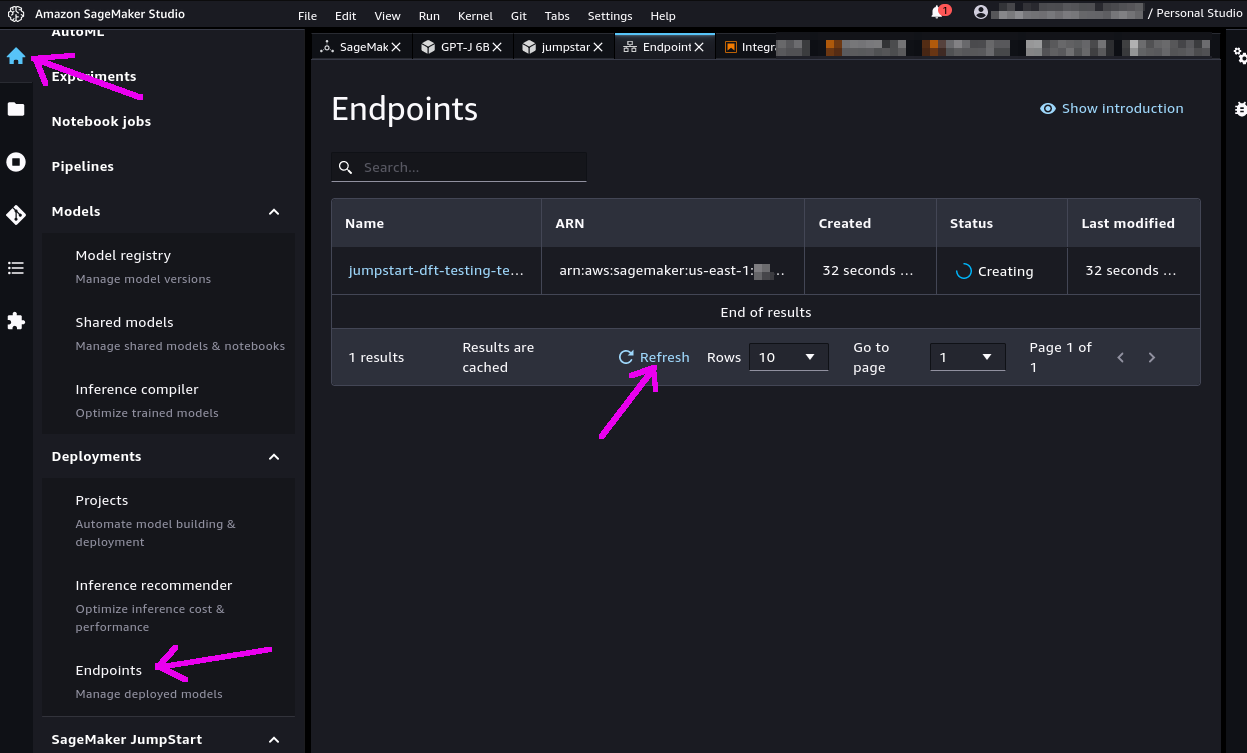
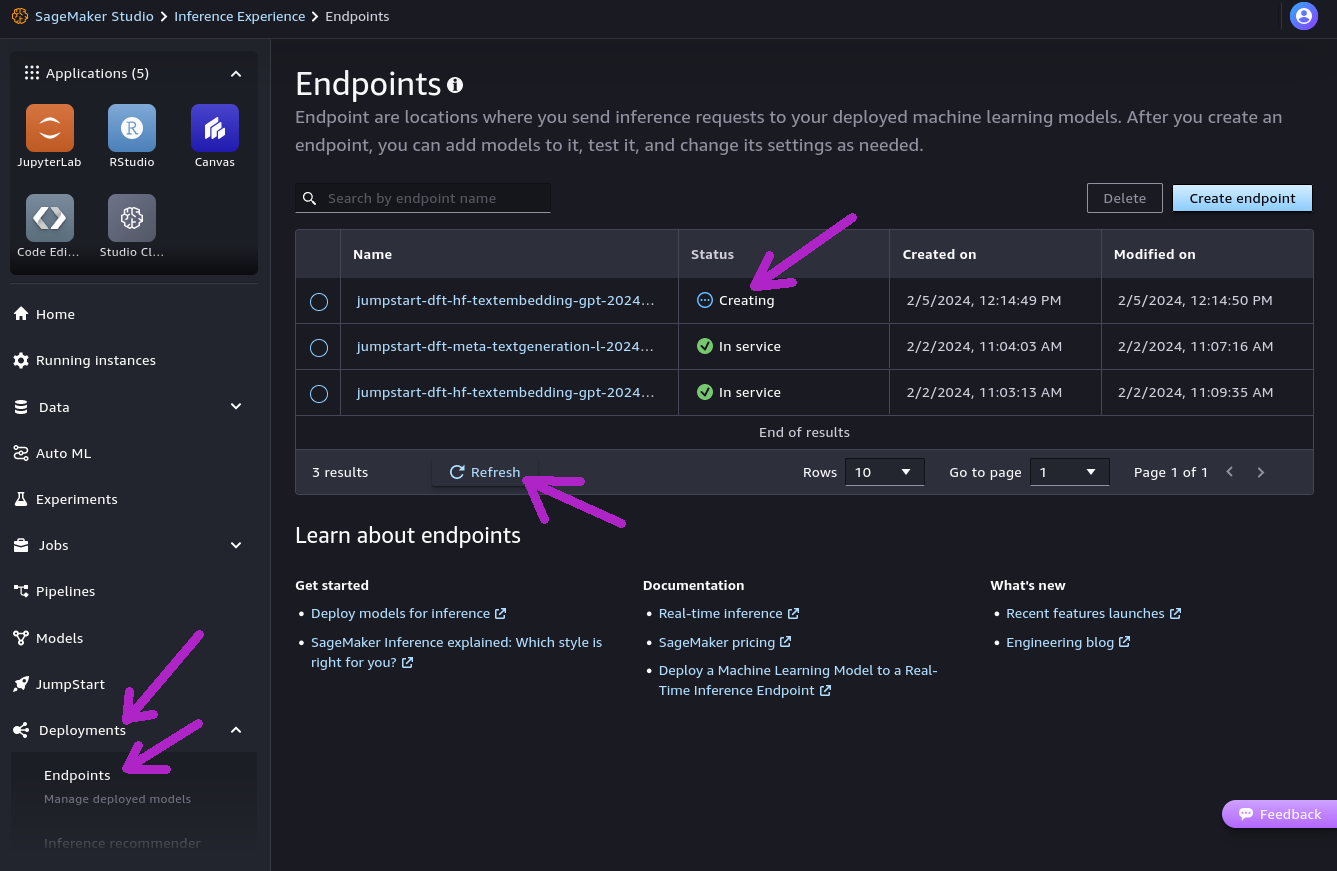
new sagemaker screenshots, revised page wording and instructions

diff --git a/docs/pages/aiml/aws/aws-sagemaker.md b/docs/pages/aiml/aws/aws-sagemaker.md
@@ -40,7 +40,7 @@ consult the suggested readings at the end of this page.
 To run the integration demo notebook, you need:
 
 - An **Amazon account** with access to Amazon SageMaker. In particular, you will need to acces SageMaker Studio and run the example in there: besides ensuring a standardized runtime and environment, SageMaker Studio provides automated access to a ready-made set of Amazon IAM roles that grant your account all necessary permissions to deploy the "JumpStart" models in SageMaker (see below for details);
-- An **Astra account** with a **Serverless Cassandra with Vector Search** database. You will need the [Database ID](https://awesome-astra.github.io/docs/pages/astra/faq/#where-should-i-find-a-database-identifier) and an [Access Token](https://awesome-astra.github.io/docs/pages/astra/create-token/) with role "Database Administrator".
+- An **Astra account** and a **Vector database** created in it. To connect to it, you need the _API Endpoint_ and an _Application Token_, which you can obtain from the database main dashboard on Astra. You may optionally need to specify a _Namespace_ for the connection if you are not targeting the default one.
 
 
 ## Setup
@@ -92,21 +92,25 @@ If you prefer to use the SageMaker UI to deploy the models, here are all steps.
 
 <img src="../../../../img/sagemaker/screenshots/sagemaker_open-jumpstart.png" />
 
-**Step 3.** Click the "Home" icon on the left toolbox of Studio and scroll to the "JumpStart / Models, notebooks, solution" entry. Clicking on it will open the "SageMaker JumpStart" tab in the main view. _(Note: we will mostly refer to "tabs within the Studio UI" simply as "tabs" in the following. These, however, are not meant to be separate tabs in your browser.)_
+<img src="../../../../img/sagemaker/screenshots/sagemaker_open-jumpstart-2.png" />
+
+**Step 3.** Make sure you are on the "Home" view (click on the home icon in the left navbar) and pick the "JumpStart" button under _Prebuilt and automated solutions_. Clicking on it will bring the "SageMaker JumpStart" listing in the main view, with the entries grouped by "Hub". Notice the search box at the top of the listing.
 
 <img src="../../../../img/sagemaker/screenshots/sagemaker_deploy-embedding_1.png" />
 
-**Step 4.** Search for the embedding model `GPT-J 6B Embedding` with the search box of the JumpStart tab. Click on it in the search results: a tab will open with this model's details. Make sure you are on the "Deploy" tab and expand the "Deployment Configuration" section.
+**Step 4.** Search for the embedding model `GPT-J 6B Embedding` with the search box of JumpStart. Click on it in the search results: you will be brought to the model's details. Click the "Deploy" button on the top right to configure and start the model deployment.
 
-**Step 5.** Give the endpoint a specific name (it must be unique) and select `ml.g5.24xlarge` as the instance type that will host the model. _(Note: you might need
+<img src="../../../../img/sagemaker/screenshots/sagemaker_deploy-embedding_1-b.png" />
+
+**Step 5.** Check the endpoint name (you can keep the default suggested one) and select `ml.g5.24xlarge` for the instance type that will host the model. _(Note: you might need
 to check with your [Service Quotas](https://docs.aws.amazon.com/servicequotas/latest/userguide/intro.html) to make sure you have capacity to deploy this instance.)_
 
-**Step 6.** Click "Deploy" to start the process. This might take between _five and ten minutes_, during which a newly-opened tab will report progress. As you can see on this tab, the endpoint you are going to use has been given a final name made by prepending `"jumpstart-dft-"` to the endpoint name you chose earlier. **Keep this endpoint name handy: you will be asked to provide it later when running the example code.**
+**Step 6.** Click "Deploy" (bottom right) to start the process. This might take between _five and ten minutes_. The endpoint you are going to use has been given a final name (visible also as the title of this page) obtained by prepending `"jumpstart-dft-"` to the name chosen earlier. **Keep this endpoint name handy: you will be asked to provide it later when running the example code.**
 
-<img src="../../../../img/sagemaker/screenshots/sagemaker_deploy-embedding_2.gif" />
+<img src="../../../../img/sagemaker/screenshots/sagemaker_deploy-embedding_2.png" />
 
 **Step 7.** While you wait, you can check the status of the deploy in two ways: (a) from the Amazon SageMaker UI, choosing the "Inference / Endpoints" entry in the left navbar, and then refreshing periodically;
-or (b) from within SageMaker Studio, by selecting the "Home" icon and then choosing "Deployments / Endpoints" in the left-hand toolbox.
+or (b) from within SageMaker Studio, by selecting the "Deployment/Endpoints" entry in the left navbar. You have to periodically click the "Refresh" button until you see the status of your model changing from "Creating" to "In service".
 
 <admonition markdown="1">
 ??? note "Checking deploy status, screenshots"
@@ -118,26 +122,17 @@ or (b) from within SageMaker Studio, by selecting the "Home" icon and then choos
 
 <img src="../../../../img/sagemaker/screenshots/sagemaker_deploy-embedding-playground.png" />
 
-**Step 8.** When the deploy has finished, you will see its status being reported as "In Service". You can run a quick test with a handy Playground-like interface available in SageMaker Studio: click on the endpoint name in the endpoint list, then select the "Test inference" tab to open it. Try with a JSON payload such as `{"text_inputs": ["I am here!", "So do I."]}` and hit "Send Request" (bottom right): the endpoint response should resemble the one shown in the screenshot, with the two embedding vectors under the `body => embedding` list-of-lists entry. _The embedding model is deployed and ready to be used in the example code._
+<img src="../../../../img/sagemaker/screenshots/sagemaker_deploy-embedding-playground-1.png" />
+
+**Step 8.** When the deploy has finished, you will see its status being reported as "In Service". You can run a quick test with a handy Playground-like interface available in SageMaker Studio: click on the endpoint name in the list (reachable through "Deployments/Endpoints" on the left navbar), then select the "Test inference" tab to open it. Try with a JSON payload such as `{"text_inputs": ["I am here!", "So do I."]}`: paste this text in the "JSON Payload" text field, then hit "Send Request" (bottom right): the endpoint response should resemble the one shown in the screenshot, with the two embedding vectors under the `body => embedding` list-of-lists entry.
+
+> Now the embedding model is deployed and ready to be used in the example code.
 
 **Step 9.** Repeat steps 4 through 7, this time _to deploy the LLM_: search in JumpStart for the model named "Llama 2 70B Chat" and choose `ml.g5.48xlarge` as instance type. _(Note: this model, made available by Meta, requires acceptance of its "End User License Agreement" and "Acceptable Use Policy" prior to use: you will be presented with a dialog to do so at deploy time. Also, keep in mind that the deploy time for this model can well exceed twenty minutes in some cases.)_
 
 **Step 10.** Similarly as for the embedding model, you can test the LLM in the UI through the model's "Test inference" tab. Try with a payload like the following: `{"inputs": "Write a short poem about the late Paleocene.", "parameters": {"max_new_tokens": 256, "temperature": 0.6, "top_p": 0.9}}`. Hit the "Send Request" button (bottom right), then check the results in the right-hand panel. _(Note: the "Test inference" tab can also show Python code to use that particular endpoint through `boto3` invocations. This may come handy, as in most cases exemplifies more advanced usages such as how to encode a past exchange between system/assistant/user roles in the text generation request.)_
 
-<admonition markdown="1">
-!!! failure "This LLM cannot be currently tested in the playground"
-
-    The custom header required to properly pass the EULA acceptance when issuing
-    invocations from the playground in SageMaker Studio is not working in the playground.
-    Without this header, invocations would return with this error:
-    `Need to pass custom_attributes='accept_eula=true' as part of header. This means ...`.
-    Unfortunately, for the time being, this model can be tested only through the code,
-    in the ways that will be demonstrated in the example.
-
-</admonition>
-
-**Deploys are now complete.** You can now start the example notebook
-as outlined in the next section.
+> **Deploys are now complete.** You can now start the example notebook as outlined in the next section.
 
 
 ## Run the example
@@ -147,10 +142,10 @@ within Amazon SageMaker Studio, so as to receive, through its usage of
 the AWS `boto3` library, an AWS identity equipped with the special permissions required
 to programmatically deploy the SageMaker JumpStart models.
 
-<admonition markdown="1">
+<!-- <admonition markdown="1">
 ??? note "Running the app from other environments"
 
-    Strictly speaking, the permission limitation only apply to the
+    Strictly speaking, the permission limitations only apply to the
     task of _deploying the JumpStart models_.
 
     That means, if the models are deployed already (e.g. through the UI),
@@ -160,7 +155,7 @@ to programmatically deploy the SageMaker JumpStart models.
 
     Please refer to the notes at the end of this page for more details.
 
-</admonition>
+</admonition> -->
 
 As mentioned earlier, you will be able to either supply the endpoint names for the AI models
 (in case you went for UI-based deploys as outlined earlier), or have the SageMaker SDK
@@ -179,36 +174,40 @@ in other ways - something that is demonstrated in an Appendix at the end of the 
 **Step 1.** Download the notebook from this repository at [this link](https://raw.githubusercontent.com/awesome-astra/docs/main/docs/pages/aiml/aws/notebooks/sagemaker.ipynb) and save it to your local computer.
 (You can also view it [on your browser](https://github.com/awesome-astra/docs/blob/main/docs/pages/aiml/aws/notebooks/sagemaker.ipynb).)
 
-<img src="../../../../img/sagemaker/screenshots/sagemaker_upload.png" />
+<img src="../../../../img/sagemaker/screenshots/sagemaker_createspace.png" />
 
-**Step 2.** You need a "JupyterLab space", i.e. a filesystem with compute resources on top of it, ready to run Jupyter kernels and effectively execute your notebooks. You find JupyterLab in the "Applications" icon group at the top of the left-hand sidebar; then, if you don't have one yet, click the "Create JupyterLab space" button, give it a name, hit "Create" and wait one minute or so. (You can use a `ml.t3.medium` instance for what comes next.)
+<img src="../../../../img/sagemaker/screenshots/sagemaker_createspace-1.png" />
 
-**Step 3.** Once the JupyterLab space is _Running_, you can click "Open JupyterLab": a new browser tab will be brought up. There is a toolbox on the left, where you are about to upload the notebook you downloaded earlier. _(Note: you can stop and re-start the space whenever you want, in order to optimize your resource usage. The notebooks stored in the space's file system will be persisted.)_
+**Step 2.** You need a "JupyterLab space", i.e. an Amazon-provided filesystem with compute resources on top of it, ready to run Jupyter kernels and effectively execute your notebooks. You find JupyterLab in the "Applications" icon group at the top of the left-hand sidebar; then, if you don't have one yet, click the "Create JupyterLab space" button, give it a name and hit "Create space". You should now see the space's dashboard -- and notice that it has been _created_, but it is not running yet.
 
-**Step 4.** In the left toolbox of your JupyterLab space, make sure you select the "File Browser" view and locate the "Upload" button: use it to upload the notebook file you previously saved. The notebook will be shown in the file browser.
+<img src="../../../../img/sagemaker/screenshots/sagemaker_runspace.png" />
+
+**Step 3.** Check the compute instance type that will support the execution of your code (you can stick with a `ml.t3.medium` instance for this example) and click "Run space" to actually get your space running. Wait a minute or so until you see the space's status change from "Starting" to "Running".
+
+**Step 4.** Once the JupyterLab space is _Running_, you can click "Open JupyterLab": a new browser tab will be brought up. There is a toolbox on the left, which you will momentarily use to upload the notebook file. _(Note: you can stop and re-start the space whenever you want, in order to optimize your resource usage. The notebooks stored in the space's file system will be persisted.)_
+
+<img src="../../../../img/sagemaker/screenshots/sagemaker_jupyterlab-opened.png" />
+
+**Step 5.** In the left toolbox of your JupyterLab space, make sure you select the "File Browser" view and locate the "Upload" button: click on it and pick the notebook file from your computer. The notebook will be shown in the file browser.
 
 <img src="../../../../img/sagemaker/screenshots/sagemaker_launch-notebook.png" />
 
-**Step 5.** If you double-click on it, the notebook will be opened in Studio, with a Jupyter kernel behind id, ready to execute its code.
+**Step 6.** If you double-click on it, the notebook will be opened in Studio, with a Jupyter kernel behind id, ready to execute its code.
 
-<img src="../../../../img/sagemaker/screenshots/sagemaker_start-environment.png" />
+<img src="../../../../img/sagemaker/screenshots/sagemaker_notebook-running.png" />
 
-**Step 6.** You can now run each cell in sequence by clicking on them and pressing Shift+Enter. You will be asked for the secrets and the connection details during execution.
-
-<img src="../../../../img/sagemaker/screenshots/sagemaker_kernel-starting.png" />
-
+**Step 7.** You can now run each cell in sequence by clicking on them and pressing Shift+Enter. You will be asked for the secrets and the connection details during execution.
 
 #### Cleanup
 
 During the above steps, some resources are created, which you may want to
 cleanly dispose of after you are done:
 
-- endpoints deployed in SageMaker (i.e. the Embedding and the LLM models). You can delete them from the "Endpoints" view, reachable through the "Inference / Endpoints" entry in SageMaker's left-hand navbar (once deleted, you can click the Refresh icon in SageMaker Studio's "Endpoints" tab to make sure they are not listed anymore);
-- resources started to run the notebook itself. These can be shut down from within SageMaker Studio: select the "Running Terminals and Kernels" view on the left toolbar (see picture below) and click the "shut down" icon next to all instances, apps and sessions associated to the notebook you just ran;
-- you may want to even delete entirely the "SageMaker domain" your created. This requires several steps, outlined [here](https://docs.aws.amazon.com/sagemaker/latest/dg/gs-studio-delete-domain.html). Do not forget you will have to manually destroy an associated S3 bucket as well;
-- a Collection in your Astra DB instance. The notebook provides a way to delete it programmatically.
-
-<img src="../../../../img/sagemaker/screenshots/sagemaker_cleanup.png" />
+- endpoints deployed in SageMaker (i.e. the Embedding and the LLM models). You can delete them from the "Endpoints" view, reachable through the "Deployments/Endpoints" entry in SageMaker's left-hand navbar (once deleted, you can click the Refresh button in the listing, to make sure they are not displayed anymore); _(Please note some endpoints can be deleted only after having manually deleted the Models that are part of the endpoint. The SageMaker UI would guide you through the process.)_
+- to delete the JupyterLab you created earlier, navigate to "Applications/JupyterLab" and select the JupyterLab space. First you need to hit "Stop space" and acknowledge the warning about additional resources (endpoints, buckets); wait until the space is "Stopped" (about 10 seconds), then you can open the "..." menu on the upper right and pick the "Delete space" menu entry.
+- Deletion of a JupyterLab space will not delete the associated S3 bucket created with it (called something like `sagemaker-studio-01234567890-9abc8defg7h`) automatically: you need to navigate to S3, identify the bucket and delete it separately;
+- you may want to even delete entirely the "SageMaker domain" you created. This requires several steps, outlined [here](https://docs.aws.amazon.com/sagemaker/latest/dg/gs-studio-delete-domain.html). Do not forget you will have to manually destroy an associated S3 bucket as well;
+- a Collection in your Astra DB instance. The notebook provides a way to delete it programmatically; alternatively, you can do so through the "Data Explorer" tab in the Astra DB dashboard for the database.
 
 
 ## Additional information
@@ -225,7 +224,7 @@ cleanly dispose of after you are done:
 
 [Accessing SageMaker from boto3 with Python](https://boto3.amazonaws.com/v1/documentation/api/latest/reference/services/sagemaker.html)
 
-### Running the app from outside of SageMaker Studio
+<!-- ### Running the app from outside of SageMaker Studio
 
 As mentioned earlier, you can still run this app from other environments than SageMaker Studio,
 provided the models are already deployed, i.e. if you do not need to execute the deployment
@@ -238,12 +237,12 @@ Replace the cell in the notebook that defines variables `boto3_sm_client`, `regi
 the first three lines are needed to enter your AWS access credentials:
 
 ```
-from getpass import getpass
+import getpass
 
 # Input your AWS secrets:
-AWS_ACCESS_KEY_ID = getpass("Please enter secret 'AWS_ACCESS_KEY_ID':")
-AWS_SECRET_ACCESS_KEY = getpass("Please enter secret 'AWS_SECRET_ACCESS_KEY':")
-AWS_SESSION_TOKEN = getpass("Please enter secret 'AWS_SESSION_TOKEN':")
+AWS_ACCESS_KEY_ID = getpass.getpass("Please enter secret 'AWS_ACCESS_KEY_ID':")
+AWS_SECRET_ACCESS_KEY = getpass.getpass("Please enter secret 'AWS_SECRET_ACCESS_KEY':")
+AWS_SESSION_TOKEN = getpass.getpass("Please enter secret 'AWS_SESSION_TOKEN':")
 
 
 # Create the AWS clients with these credentials:
@@ -266,3 +265,4 @@ aws_role = sagemaker_session.get_caller_identity_arn()
 ```
 
 Now, the rest of the notebook should run just like in SageMaker Studio.
+ -->
